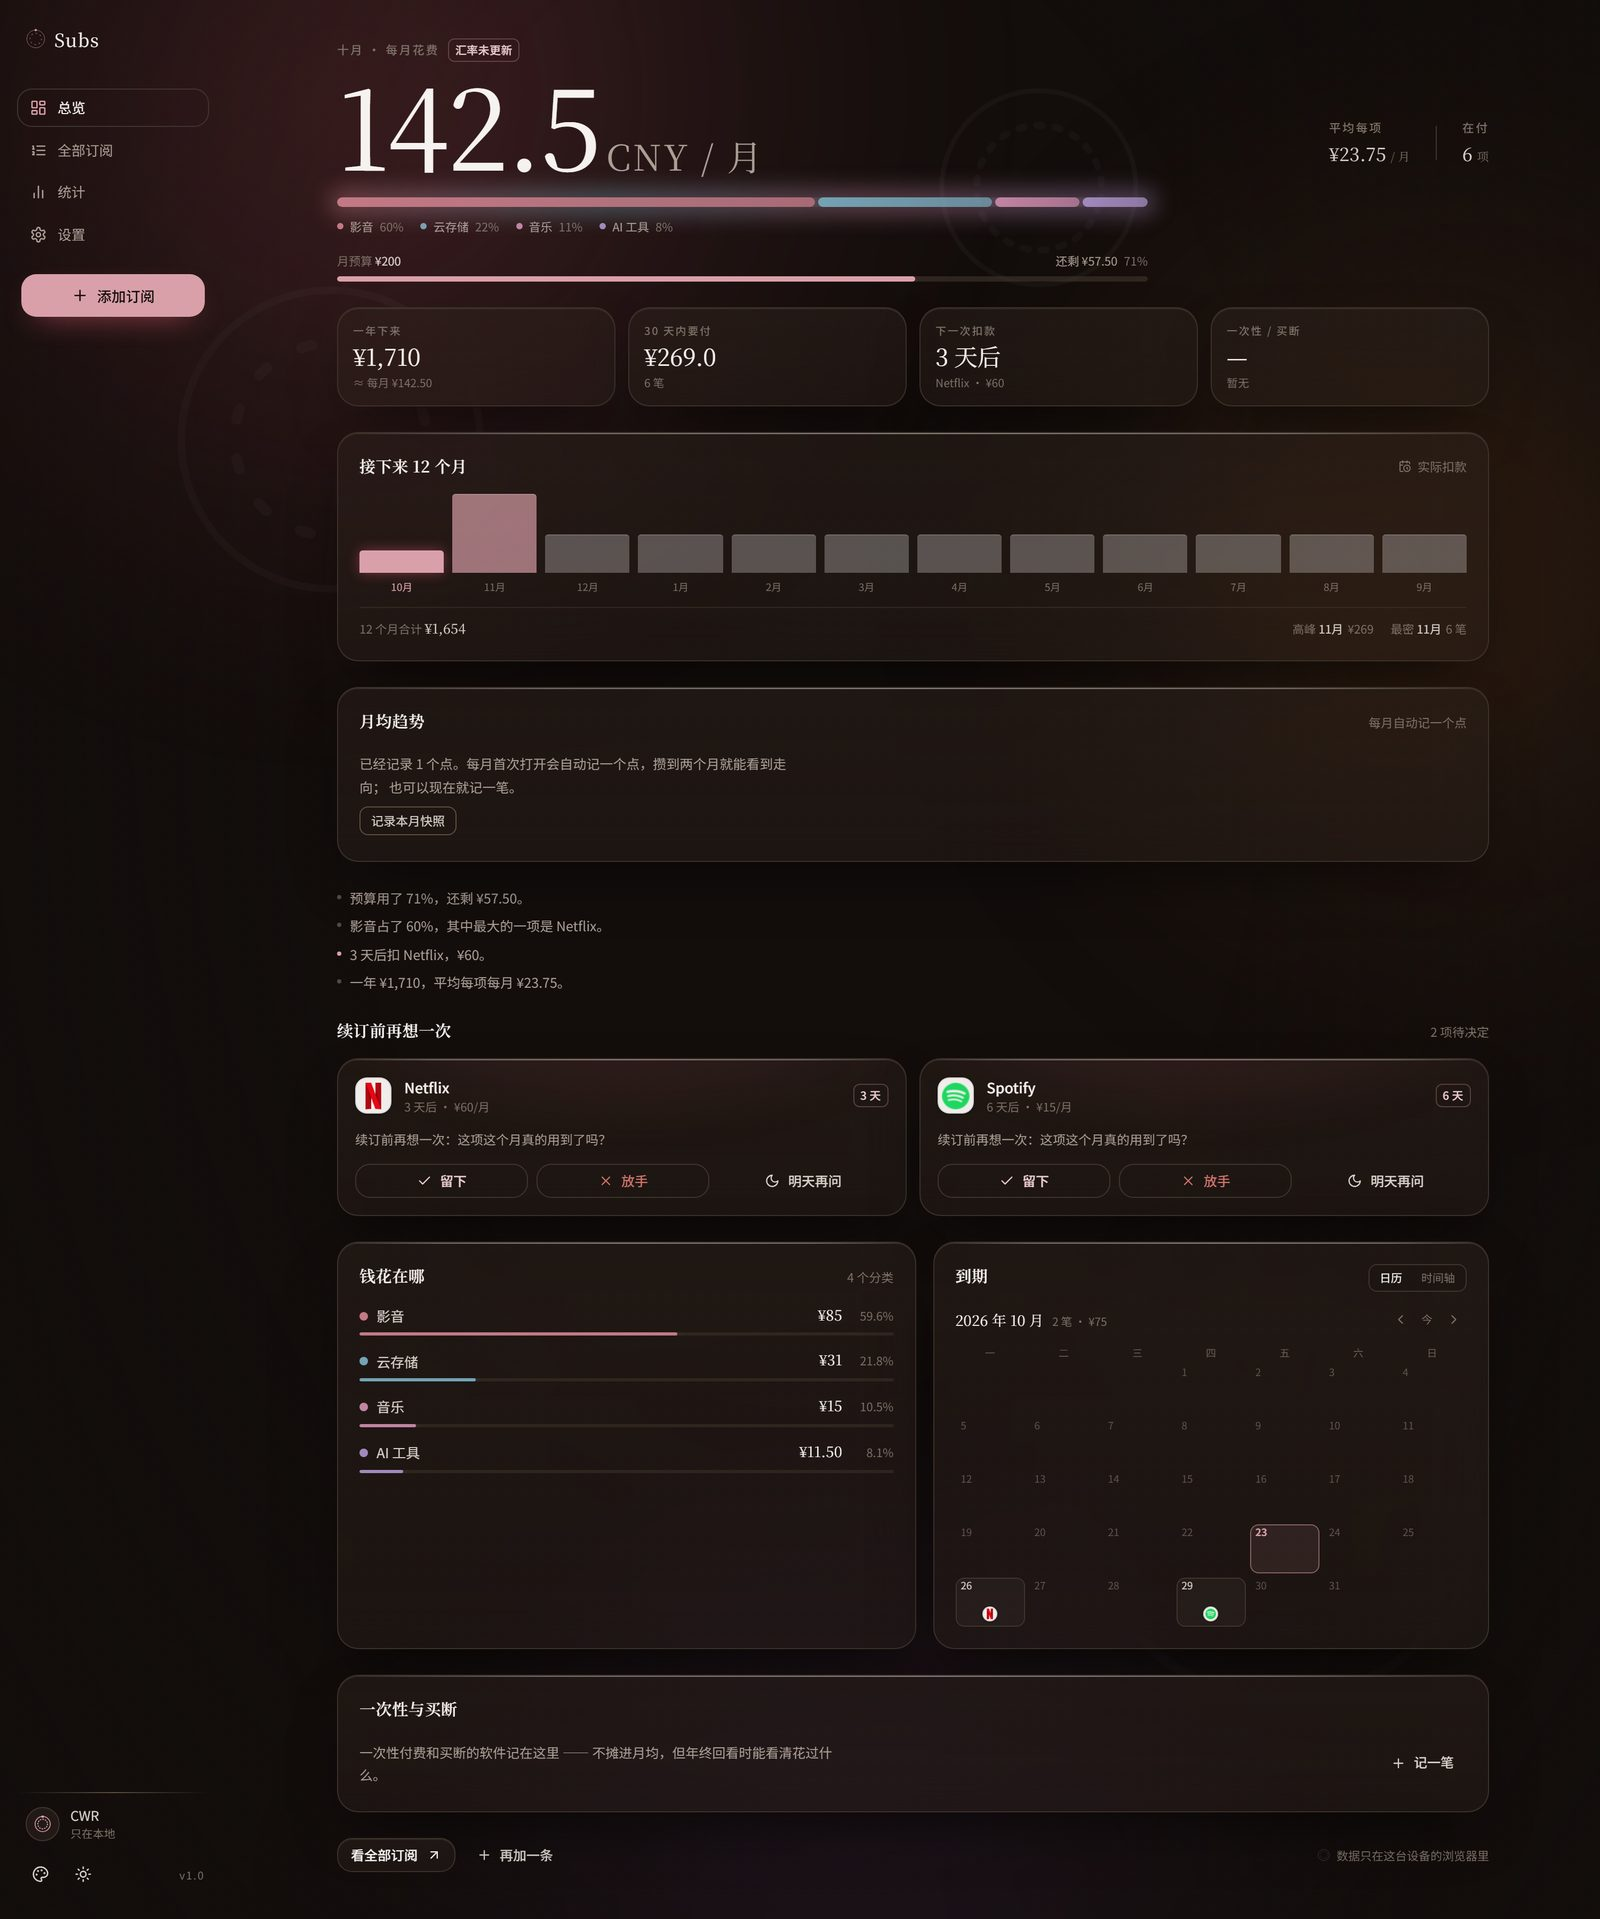
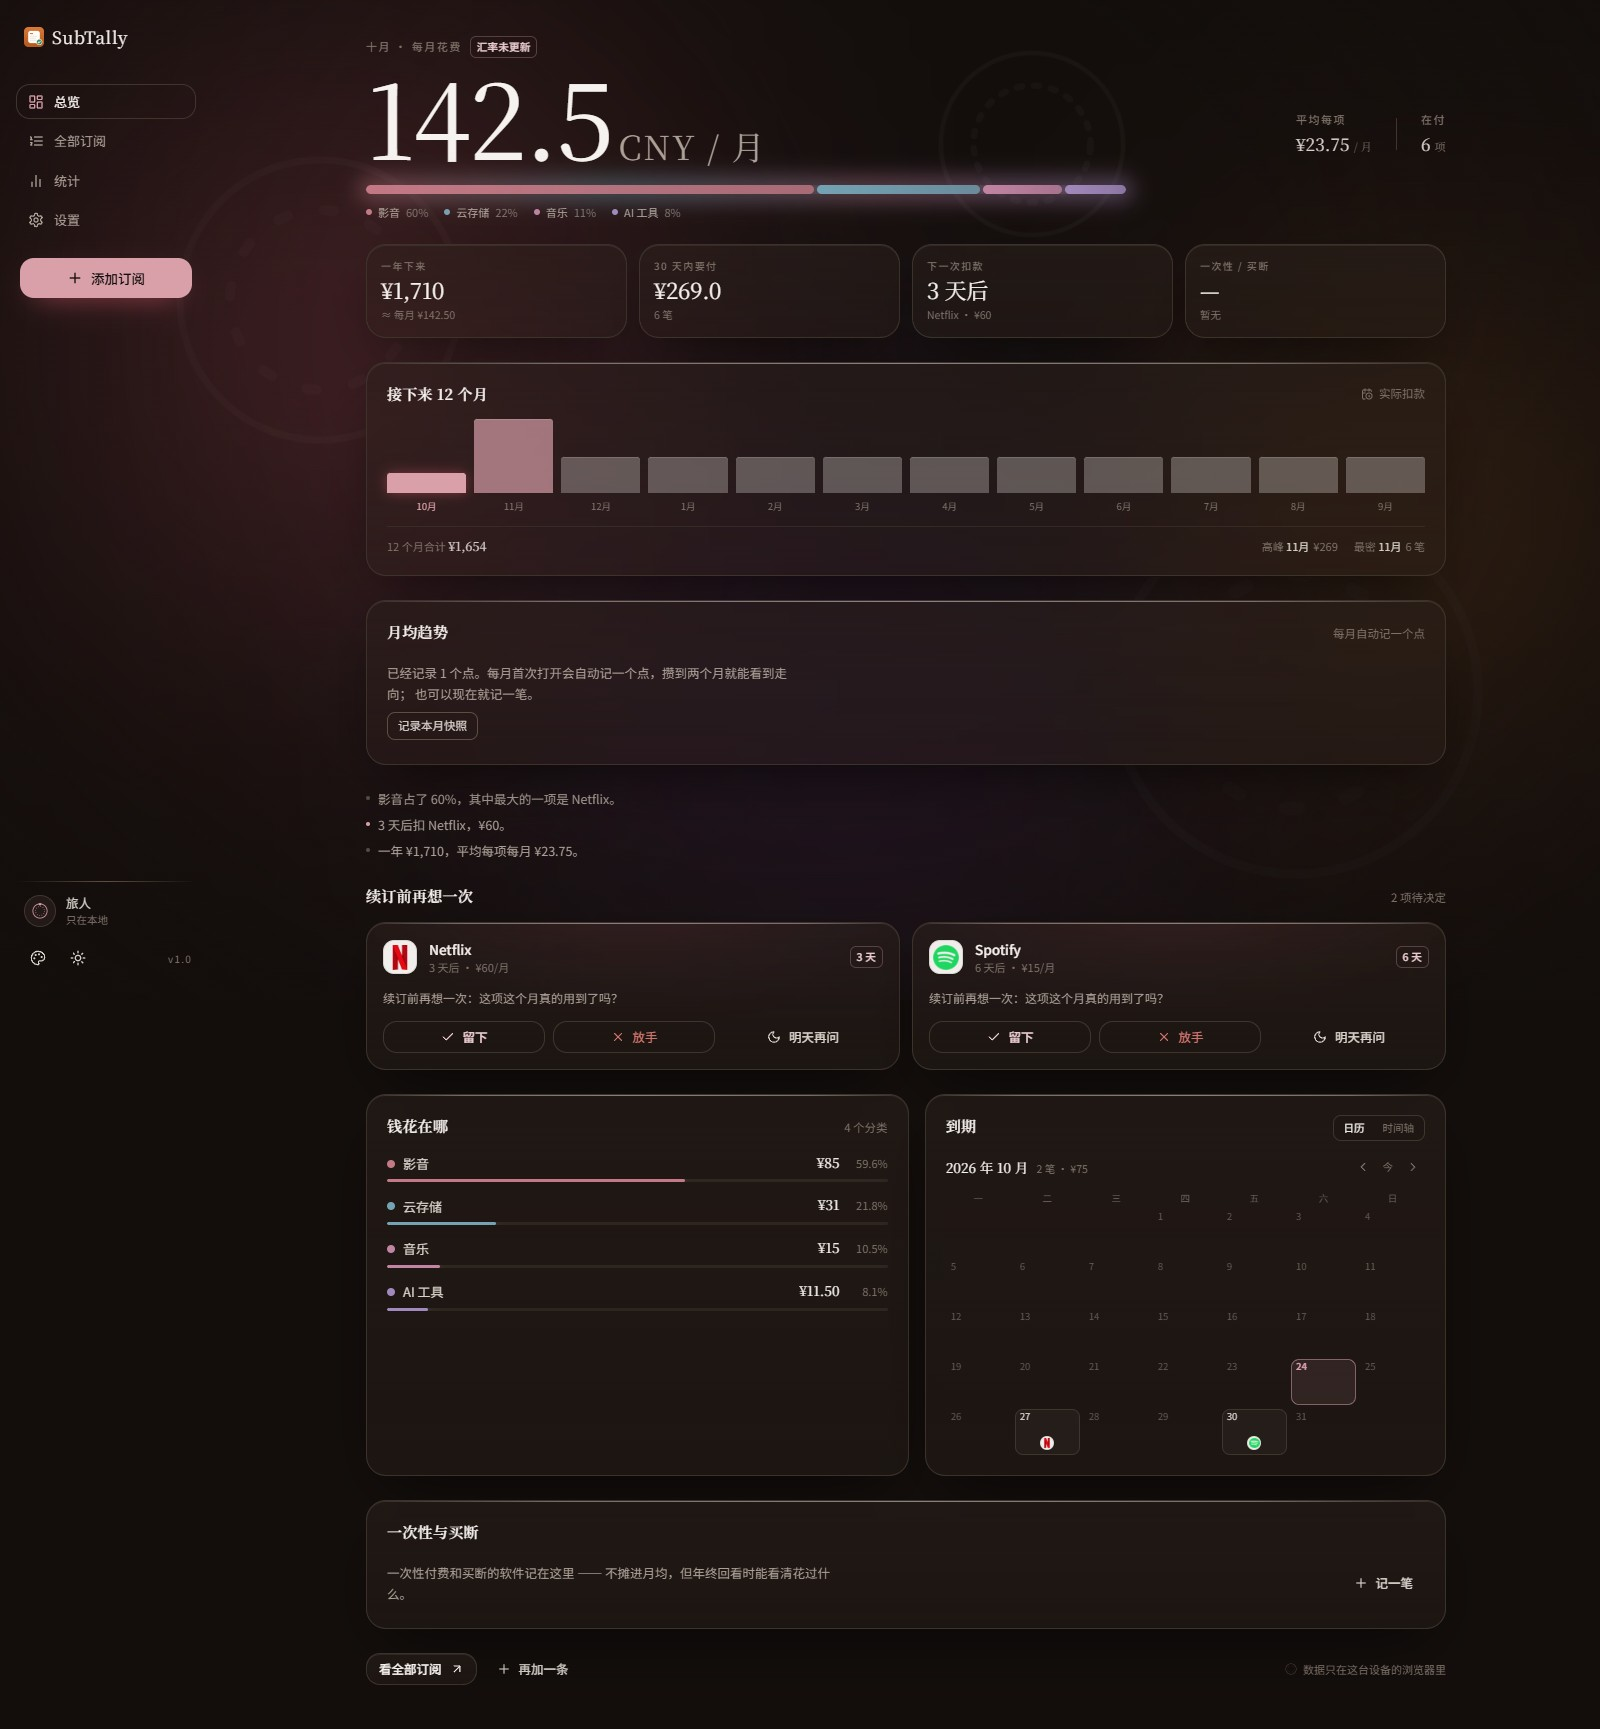
docs: 更新 README 横幅、品牌截图与镜像地址

diff --git a/README.md b/README.md
@@ -1,5 +1,9 @@
 # SubTally
 
+<p align="center">
+  <img src="docs/social-preview.png" alt="SubTally" width="900" />
+</p>
+
 **把订阅理清，把选择留给自己。**
 
 本地优先的订阅管理与续费决策应用。记下会员、创作者充电、AI 套餐，之后每月花了多少、花在哪、下一次要付什么，一眼看清；每次续费前它只问你一句「还要不要」，决定留给你自己。
@@ -8,7 +12,7 @@
 
 <p align="center">
   <a href="https://github.com/Caoran1314/SubTally/actions/workflows/ci.yml"><img alt="CI" src="https://github.com/Caoran1314/SubTally/actions/workflows/ci.yml/badge.svg" /></a>
-  <a href="https://hub.docker.com/r/caowenrui/subs"><img alt="Docker" src="https://img.shields.io/docker/v/caowenrui/subs?label=docker" /></a>
+  <a href="https://hub.docker.com/r/caowenrui/subtally"><img alt="Docker" src="https://img.shields.io/docker/v/caowenrui/subtally?label=docker" /></a>
   <a href="LICENSE"><img alt="License" src="https://img.shields.io/badge/license-MIT-blue.svg" /></a>
   <img alt="React" src="https://img.shields.io/badge/React-18-087ea4.svg" />
   <img alt="Vite" src="https://img.shields.io/badge/Vite-6-646cff.svg" />
@@ -71,11 +75,11 @@ npm run typecheck  # 类型检查
 
 ## Docker
 
-镜像地址：`caowenrui/subs`（由 CI 自动构建推送，见下文）
+镜像地址：`caowenrui/subtally`（由 CI 自动构建推送，见下文）
 
 ```bash
 docker run -d --name subs -p 5273:8080 --restart unless-stopped \
-  -e TZ=Asia/Shanghai caowenrui/subs:latest
+  -e TZ=Asia/Shanghai caowenrui/subtally:latest
 ```
 
 打开 `http://<host>:5273`。
